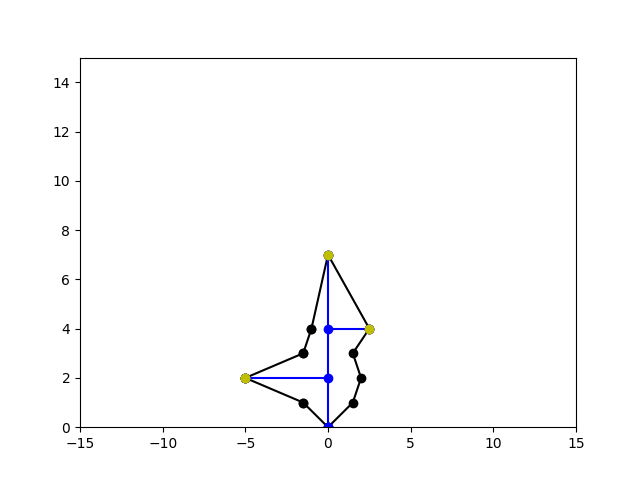
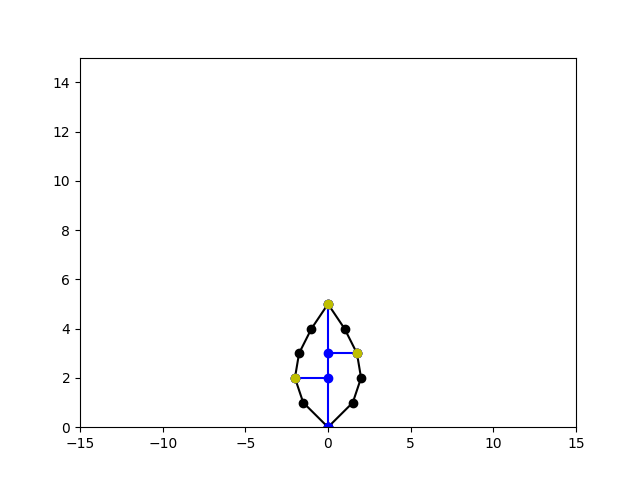
added interpolation of points

Changed region(s): [[0.375, 0.5, 0.5938, 0.8438]]

diff --git a/Prototype1/growth.py b/Prototype1/growth.py
@@ -1,5 +1,6 @@
 import numpy as np
 from sklearn.metrics.pairwise import euclidean_distances
+from scipy.interpolate import interp1d
 from leafstructure import Point, Vein, Margin, Leaf
 
 
@@ -42,11 +43,46 @@ def bounding_distances(list_of_pts, left_pt, right_pt):
 
 # LEAF DEVELOPMENT FUNCTIONS
 
+def interpolate_pts(pt_A, pt_B, leaf):
+    """Given two positions a new point is created between these points by linear interpolation"""
+    print(pt_A)
+    print(pt_B)
+    x = [pt_A.pos[0], pt_B.pos[0]]
+    y = [pt_A.pos[1], pt_B.pos[1]]
+    print(f"x: {x} y: {y}")
+
+    xnew = np.linspace(x[0], x[1], num=3, endpoint=True)
+    f = interp1d(x, y, kind='linear')
+    ynew = f(xnew)
+    print(f"xnew: {xnew} ynew: {ynew}")
+    new_pt = Point([xnew[1], ynew[1]], 0, leaf.primordium_vein, 0, 0)
+    leaf.margin.insert_point(new_pt)
+
+
+def initialize_growth(leaf):
+    cp_indicators, cp_index = leaf.margin.get_cp_indicators()
+    print(f"cp_indicators:  {cp_indicators}, cp_index: {cp_index}")
+    # check if points need to be interpolated
+    if len(cp_index) > 1:
+        prev_i = 0
+        for i in range(1, len(cp_index)):
+            if (cp_index[i] - cp_index[prev_i]) <= 1:
+                print(f"previ{cp_index[prev_i]} i{cp_index[i]}")
+                interpolate_pts(leaf.margin.points[cp_index[prev_i]], leaf.margin.points[cp_index[i]], leaf)
+                # recalculate cp_indicators
+                cp_indicators, cp_index = leaf.margin.get_cp_indicators()
+                print(f"cp_indicators:  {cp_indicators}, cp_index: {cp_index}")
+            prev_i = i
+    return cp_indicators, cp_index
+
+
 def hard_coded_cp_addition(leaf):
     """create new cp for vein insertion this is temporarily hard coded for poc,
     later done dynamically based on threshold during growth"""
-    leaf.margin.points[4].is_cp = 1
-    leaf.margin.points[10].is_cp = 1
+    leaf.margin.points[2].is_cp = 1
+    leaf.margin.points[3].is_cp = 1
+    leaf.margin.points[7].is_cp = 1
+    leaf.margin.points[8].is_cp = 1
     leaf.margin.check_conv_points()
 
 
@@ -103,9 +139,7 @@ def calculate_gr(prev_data, next_data, gr):
 def expand_veins(leaf, gr):
     """Expand the cp on margin in the direction of their veins
     by a growth rate (gr)"""
-    veins = []
-    cp_indicators, cp_index = leaf.margin.get_cp_indicators()
-    print(f"cp_indicators:  {cp_indicators}, cp_index: {cp_index}")
+    cp_indicators, cp_index = initialize_growth(leaf)
     prev_cp_i = 0
     gr_total = np.zeros(len(cp_indicators))
     # maybe change to 0 later or just to a minimal value instead?
@@ -151,26 +185,3 @@ def expand_veins(leaf, gr):
             prev_vein_dir = next_vein_dir
 
     # leaf.margin.grow(gr_total)
-
-# def expand_veins(leaf, gr):
-#     """Expand the cp on margin in the direction of their veins
-#     by a growth rate (gr)"""
-#     veins = []
-#     cp_indicators, cp_index = leaf.margin.get_cp_indicators()
-#     print(cp_index)
-#     prev_cp = 0
-#     for i in range(1, len(cp_indicators)):
-#         # next_cp =
-#         if cp_indicators[i] == 1:
-#             cp = leaf.margin.points[i]
-#             # only feed positions left and right of cp to the distance function
-#             # multiply these by growth rate in direction
-#             # add to existing gr values
-#             # at the end of the loop expand all in 1 go
-#
-#             # print(distance_matrix(leaf.margin, cp))
-#
-#             exp_vein = cp.vein_assoc[-1]
-#             dir_vein = normalize_vec(exp_vein.get_vector())
-#             cp.pos = cp.pos + (gr * dir_vein)
-#         # prev_cp =

diff --git a/Prototype1/default_setup.py b/Prototype1/default_setup.py
@@ -14,7 +14,7 @@ def initialize_default_leaf():
 
     # create margin
     margin = Margin([base_point, final_point], base_point, base_point)
-    width_points = [0, 1.5, 2, 1.5, 1, 0]
+    width_points = [0, 1.5, 2, 1.75, 1, 0]
     for i in [-1, 1]:
         for j in range(1, 5):
             x = i * width_points[j]
@@ -22,6 +22,37 @@ def initialize_default_leaf():
             has_morphogen = 0
             new_point = Point([x, j], is_cp, [primordium_vein], has_morphogen, 0)
             margin.insert_point(new_point)
+    margin.check_conv_points()
+
+    default_leaf = Leaf(base_point, primordium_vein, margin, [primordium_vein])
+    return default_leaf
+
+def initialize_default_leaf2():
+    # initialize single leaf instance
+    base_point = Point([0, 0], 0, [], 0, 1)
+    final_point = Point([0, 5], 1, [], 0, 1)
+
+    # create primordium vein
+    primordium_vein = Vein([base_point, final_point], base_point, final_point)
+    final_point.vein_assoc = [primordium_vein]
+    primordium_vein.insert_point(final_point)
+
+    base_point.vein_assoc = [primordium_vein]
+
+    # create margin
+    margin = Margin([base_point, final_point], base_point, base_point)
+    width_points = [0, 1.5, 2, 1.75, 1, 0]
+    new_length = 0
+    for i in [-1, 1]:
+        print(new_length)
+        for j in range(1, 5):
+            x = i * width_points[j]
+            is_cp = 0
+            has_morphogen = 0
+            print(f"adding: [{x}, {j}]")
+            new_point = Point([x, j], is_cp, [primordium_vein], has_morphogen, 0)
+            new_length = margin.insert_point(new_point)
+            print(new_length,margin)
     margin.check_conv_points()
 
     default_leaf = Leaf(base_point, primordium_vein, margin, [primordium_vein])

diff --git a/Prototype1/leafstructure.py b/Prototype1/leafstructure.py
@@ -123,26 +123,29 @@ class Margin(PointCollection):
             m_neg.append(point_to_add)
         if point_to_add.pos[0] > 0:
             m_pos.append(point_to_add)
-        else:
+        if point_to_add.pos[0] == 0:
             m_0.append(point_to_add)
+
         # split points into left and right margin based on x values
         for pt in self.points:
             if pt.pos[0] < 0:
                 m_neg.append(pt)
-            elif pt.pos[0] > 0:
+            if pt.pos[0] > 0:
                 m_pos.append(pt)
-            else:
+            if pt.pos[0] == 0:
                 m_0.append(pt)
 
         # sort sides individually
         m_neg = sorted(m_neg, key=cmp_to_key(Point.comparator))
         m_pos = sorted(m_pos, key=cmp_to_key(Point.comparator), reverse=True) #sort top to bottom
         m_0 = sorted(m_0, key=cmp_to_key(Point.comparator))
+        # print(f"m_neg {m_neg}, m_pos {m_pos}, m_0 {m_0}")
 
         # add list parts and set to attributes
         self.points = [m_0[0]] + m_neg + m_0[1:] + m_pos
         self.start_point = self.points[0]
         self.end_point = self.points[0]
+        return len(self.points)
 
     def get_cp_indicators(self):
         """Returns a list of 1 or 0 values depending on the existence of a cp

diff --git a/Prototype1/testing_functionality.py b/Prototype1/testing_functionality.py
@@ -1,0 +1,40 @@
+from scipy.interpolate import interp1d
+import numpy as np
+import matplotlib.pyplot as plt
+from default_setup import initialize_default_leaf, initialize_default_leaf2
+import visualization as vis
+from leafstructure import Point, Vein, Margin, Leaf
+
+
+x = np.linspace(0, 10, num=11, endpoint=True)
+y = np.cos(-x**2/9.0)
+# f = interp1d(x, y)
+# f2 = interp1d(x, y, kind='cubic')
+
+# xnew = np.linspace(0, 10, num=41, endpoint=True)
+#
+# plt.plot(x, y, 'o', xnew, f(xnew), '-', xnew, f2(xnew), '--')
+# plt.legend(['data', 'linear', 'cubic'], loc='best')
+# plt.show()
+
+
+leaf = initialize_default_leaf()
+points_x, points_y, _ = leaf.margin.get_points_pos()
+
+left_point = 3
+right_point = 4
+print(f"points_x{points_x}")
+print(f"points_y{points_y}")
+print(points_x[left_point:right_point+1], points_x[left_point], points_x[right_point])
+
+xnew = np.linspace(points_x[left_point], points_x[right_point], num=3, endpoint=True)
+print(xnew)
+
+f_leaf = interp1d(points_x[left_point:right_point+1], points_y[left_point:right_point+1], kind='linear')
+ynew = f_leaf(xnew)
+print(ynew)
+plt.plot(xnew, ynew, 'o', xnew, ynew, '-')
+plt.legend(['data', 'cubic'], loc='best')
+plt.show()
+vis.plot_leaf(leaf, 15, ".", "test", 0)
+

diff --git a/Prototype1/Main.py b/Prototype1/Main.py
@@ -17,7 +17,8 @@ def main():
         # modification of morphogen distribution
 
         # new convergence points & possible new morphogen distribution
-        hard_coded_cp_addition(leaf)
+        if i == 0:
+            hard_coded_cp_addition(leaf)
 
         # new vein addition
         vein_addition(leaf, leaf.primordium_vein)

diff --git a/Prototype1/visualization.py b/Prototype1/visualization.py
@@ -32,3 +32,4 @@ def plot_leaf(leaf, dim, path, name, step):  # base_point, all_veins, margin, al
     plt.clf()
 
     # plt.show()
+
